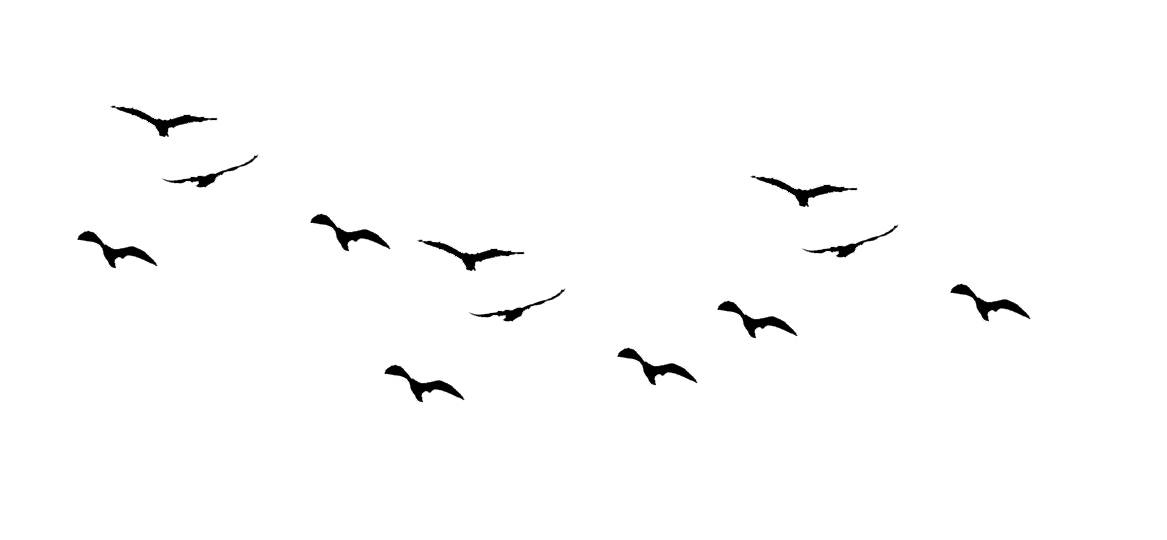
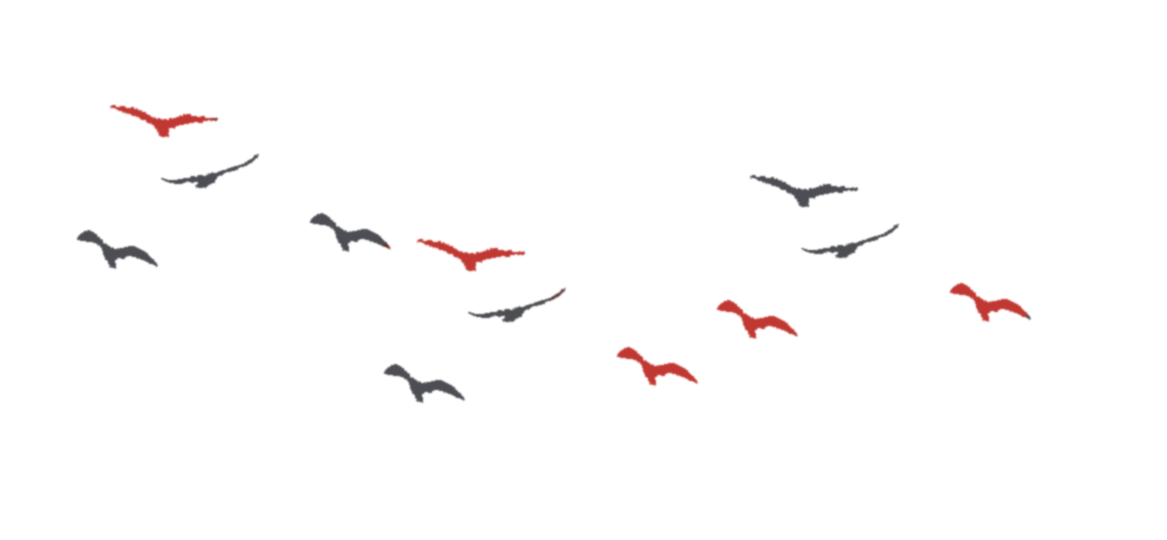
Colorindo o website, dando cores mais vivas

diff --git a/assets/css/bernunca.css b/assets/css/bernunca.css
@@ -14,7 +14,7 @@ body {
     background: -webkit-linear-gradient(top, #D7D3C8 0%, #F6F4EC 100%); /* For Safari 5.1 to 6.0 */
     background: -o-linear-gradient(top, #D7D3C8, #F6F4EC); /* For Opera 11.1 to 12.0 */
     background: -moz-linear-gradient(top, #D7D3C8, #F6F4EC); /* For Firefox 3.6 to 15 */
-    background: linear-gradient(to bottom, #D7D3C8 0%, #F6F4EC 100%); /* Standard syntax */
+    background: linear-gradient(to bottom, #f7f6f4 0%, #e7e4de 100%); /* Standard syntax */
     filter: progid:DXImageTransform.Microsoft.gradient( startColorstr='#d7d3c8', endColorstr='#f6f4ec',GradientType=0 ); /* IE6-9 */
 }
 
@@ -165,15 +165,22 @@ h4 {
 
 
 #atividades {
-   margin-top: 5%; 
-   background-color: #4D4E53;
-   color: #F6F4EC;
-   text-align: center;
+    margin-top: 5%; 
+    background-color: #458588;
+    color: #F6F5F3;
+    text-align: center;
+    font-weight: bold;
+
 }
 
 .atividade {
     padding-top: 3%;
     padding-bottom: 3%;
+}
+
+.atividade hr {
+    border:1px solid #282828;
+    width: 50%;
 }
 
 .atividade-titulo {
@@ -188,14 +195,14 @@ h4 {
 .atividade-data {
     margin-top: 0%;
     margin-bottom: 1%;
-    text-align: left;
+    text-align: center;
     font-weight: bold;
 }
 
 .atividade-local {
     margin-top: 0%;
     margin-bottom: 1%;
-    text-align: left;
+    text-align: center;
     font-weight: bold;
 }
 
@@ -249,8 +256,16 @@ h4 {
     margin-top: 5%;
     padding-top: 3%;
     padding-bottom: 5%;
-    background-color: #D7D3C8;
+    background-color: #8ec07c;
+    color: #282828;
+    font-weight: bold;
 }
+
+th,td {
+    border-bottom: 1px solid #427b58;
+}
+
+
 .membros-titulo {
     font-weight: bold;
 }

diff --git a/assets/css/skeleton.css b/assets/css/skeleton.css
@@ -326,7 +326,7 @@ th,
 td {
   padding: 12px 15px;
   text-align: left;
-  border-bottom: 1px solid #E1E1E1; }
+  }
 th:first-child,
 td:first-child {
   padding-left: 0; }
